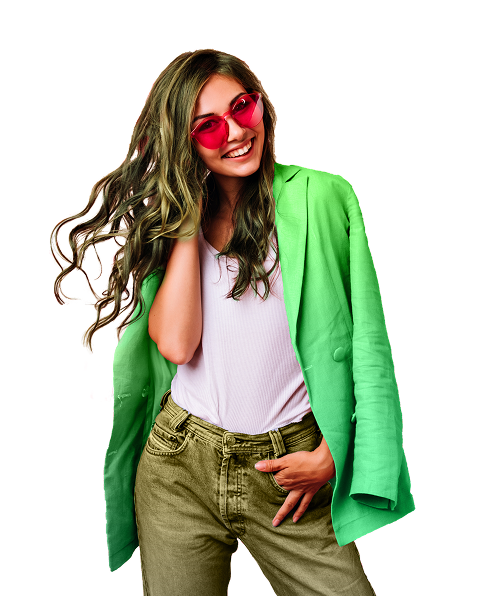
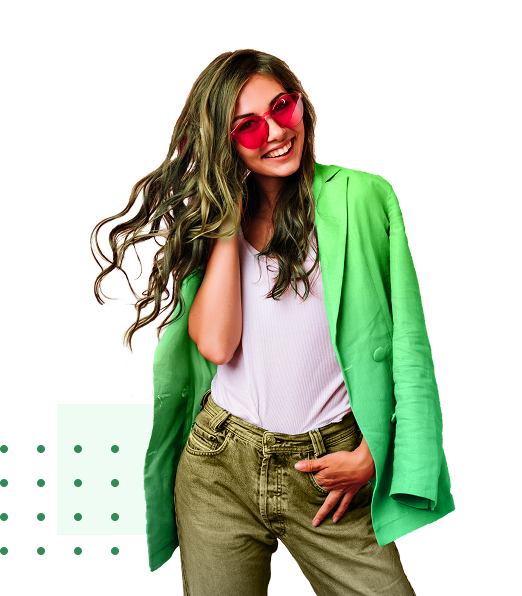
Add Info Block

diff --git a/css/style.css b/css/style.css
@@ -580,3 +580,87 @@ body, html {
     }
 }
 
+
+/* Info-block Styles*/
+.info-block {
+    background: #C2EFD4;
+    border-radius: 3px;
+    height: auto;
+    max-width: 100%;
+    width: 100%;
+    display: flex;
+    justify-content: space-between;
+    align-items: center;
+    padding-right: 121px;
+    gap: 104px;
+    margin-bottom: 218px;
+}
+
+.info-block .info-img {
+    position: relative;
+    left: 40px;
+}
+
+.info-block .info-img img { display: block; }
+
+.info-block .info-text h2 {
+    color: #224F34;
+    font-size: 46px;
+    font-weight: 700;
+    font-family: "Roboto Slab", serif;
+    margin-bottom: 20px;
+}
+
+.info-block .info-text p {
+    color: #224F34;
+    font-size: 22px;
+    font-family: "Poppins", sans-serif;
+    font-weight: 500;
+    margin-bottom: 40px;
+}
+
+.info-block .info-text .timer {
+    display: flex;
+    gap: 35px;
+    margin-bottom: 41px;
+}
+
+.info-block .info-text .timer .timer-item {
+    background: #fff;
+    border-radius: 3px;
+    padding: 13px 25px;
+    display: flex;
+    flex-direction: column;
+    align-items: center;
+    justify-content: center;
+    min-width: 100px;
+}
+
+.info-block .info-text .timer .timer-item .number {
+    color: #224F34;
+    font-size: 32px;
+    font-family: "Poppins", sans-serif;
+    font-weight: 600;
+    margin-bottom: 1px;
+}
+
+.info-block .info-text .timer .timer-item .label {
+    color: #224F34;
+    font-size: 16px;
+    font-family: "Poppins", sans-serif;
+    font-weight: 500;
+}
+
+.info-block .info-text button {
+    border-radius: 3px;
+    border: none;
+    outline: none;
+    background: #224F34;
+    color: #fff;
+    text-transform: uppercase;
+    font-size: 20px;
+    font-family: "Poppins", sans-serif;
+    font-weight: 500;
+    cursor: pointer;
+    padding: 22px 70px;
+}

diff --git a/index.html b/index.html
@@ -164,6 +164,31 @@
                 </div>
             </div>
         </div>
+
+        <div class="info-block">
+            <div class="info-img">
+                <img src="img/info-section/girl.png" alt="">
+            </div>
+            <div class="info-text">
+                <h2>Exclusive offer</h2>
+                <p>Unlock the ultimate style upgrade with our exclusive offer Enjoy savings of up to 40% off on our latest New Arrivals</p>
+                <div class="timer">
+                    <div class="timer-item">
+                        <span class="number">06</span>
+                        <span class="label">Days</span>
+                    </div>
+                    <div class="timer-item">
+                        <span class="number">18</span>
+                        <span class="label">Hours</span>
+                    </div>
+                    <div class="timer-item">
+                        <span class="number">48</span>
+                        <span class="label">Min</span>
+                    </div>
+                </div>
+                <button>buy now</button>
+            </div>
+        </div>
     </main>
 </body>
 </html>
